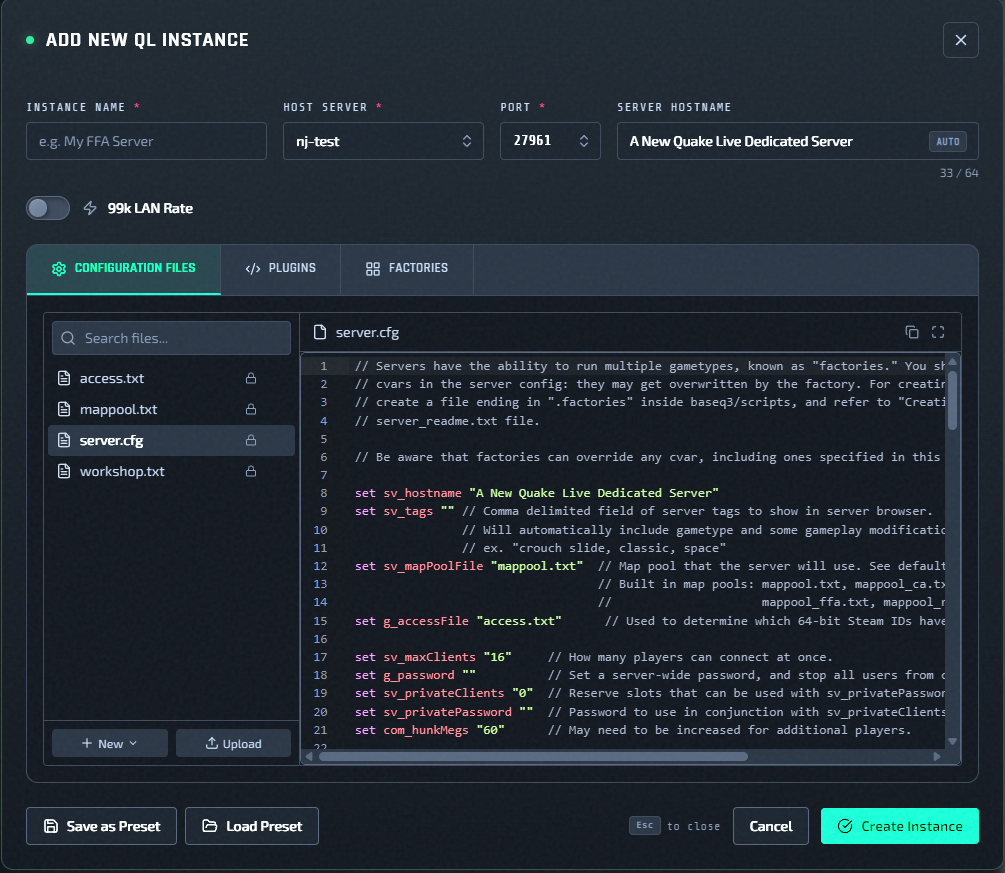
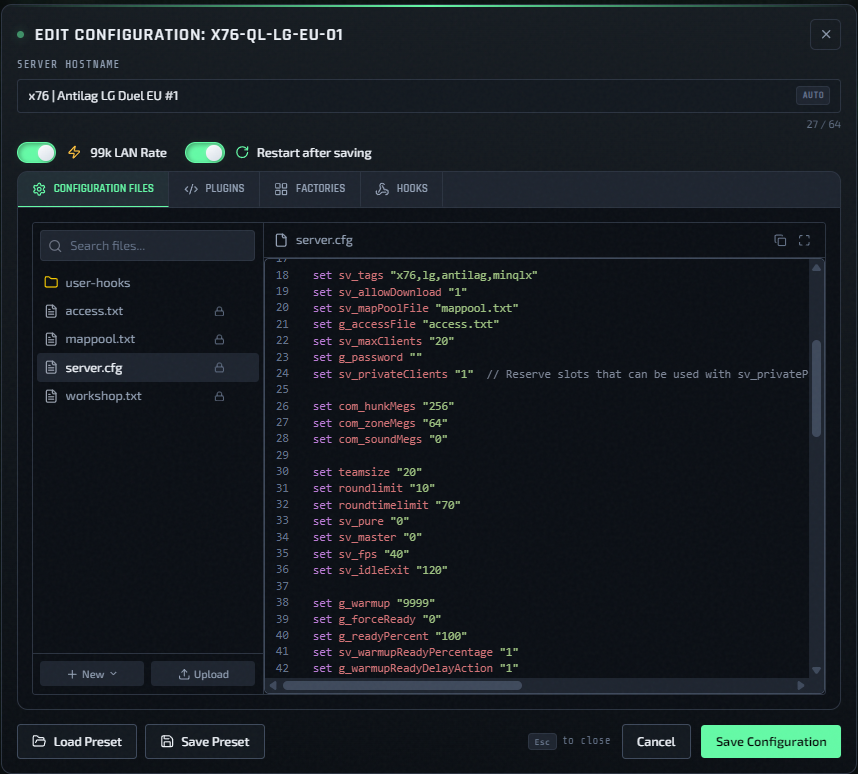
docs: add hooks tab screenshot and bump version to 1.12.1

diff --git a/docs/user/features/hooks.md b/docs/user/features/hooks.md
@@ -2,6 +2,8 @@
 
 The **Hooks** tab in the instance config editor manages LD_PRELOAD libraries — native `.so` files that are loaded into the QLDS process before it starts.
 
+![](../images/hooks.png)
+
 ## Why LD_PRELOAD Hooks
 
 Some low-level behaviors in Quake Live can only be changed by patching the running process. LD_PRELOAD lets a small native library intercept or replace specific C functions inside `qzeroded.x64` at launch time. QLSM uses this mechanism for [99k LAN rate](99k-lan-rate.md) and exposes the same mechanism to you for custom use.

diff --git a/docs/user/releases.md b/docs/user/releases.md
@@ -4,6 +4,7 @@ QLSM uses `v<major>.<minor>.<patch>` tags. Every merged pull request is listed a
 
 | Version | Date | PR | Changes |
 | --- | --- | --- | --- |
+| `v1.12.1` | 2026-06-14 | [#117](https://github.com/dngrtech/qlsm/pull/117) | Added screenshot to LD_PRELOAD Hooks documentation page. |
 | `v1.12.0` | 2026-06-14 | [#117](https://github.com/dngrtech/qlsm/pull/117) | Expanded user documentation: new LD_PRELOAD Hooks page, Hooks tab coverage in Edit Configs, plugin requirements.txt auto-install docs, Re-run Host Setup availability and downtime behavior corrected, legacy 99k LAN Rate migration notes removed, nav index expanded. |
 | `v1.11.9` | 2026-06-14 | [#116](https://github.com/dngrtech/qlsm/pull/116) | Fix standalone host IP address field pre-filling with the self-host IP when switching providers in the Add Host modal. |
 | `v1.11.8` | 2026-06-13 | [#115](https://github.com/dngrtech/qlsm/pull/115) | Removed "99k LAN rate is not compatible with Ubuntu" warning from the add-host form and connection test response — Ubuntu hosts have supported 99k LAN rate via the LD_PRELOAD hook since v1.10.0. |